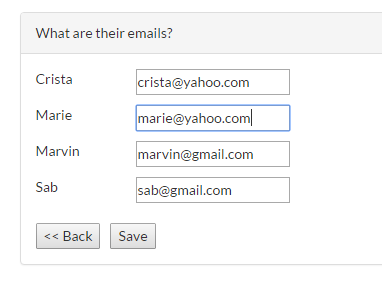
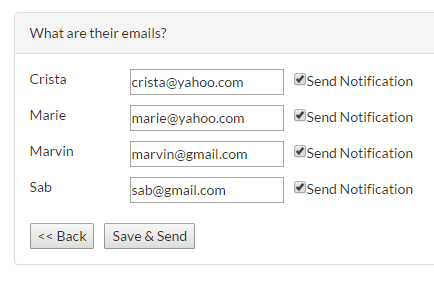
Updated the tutorial to add sending notification

diff --git a/public/css/style.css b/public/css/style.css
@@ -379,6 +379,11 @@ input.app-remove, input.app-show {
     content: url('../img/Tutorial11.PNG');
 }
 
+#tutorial12 {
+    max-width: 100%;
+    content: url('../img/Tutorial12.PNG');
+}
+
 @media screen and (max-width: 430px) {
     input.app-remove, input.app-show{
         margin-left: 30px;

diff --git a/resources/views/tutorial.blade.php b/resources/views/tutorial.blade.php
@@ -52,6 +52,7 @@
                             <li><a href="#howtoassignstatuses">How can I assign statuses to the transaction?</a></li>
                             <li><a href="#servicechargeexplained">What is the service charge?</a></li>
                             <li><a href="#taggingexplained">How does tagging work?</a></li>
+                            <li><a href="#sendingnotification">How do I an send email notification to my friends? What does the notification contain?</a></li>
                         </ol>
                     </div>
                 </div>
@@ -276,12 +277,28 @@
                         <ol>
                             <li>Click on the "Tag" link in the <i>Receivables</i> section.</li>
                             <li>Type the person's email beside their name.<div><img id="tutorial10"></div> </li>
-                            <li>Click the Save button.</li>
+                            <li>Click the Save & Send button.</li>
                         </ol>
                         <p>
                             Marie logs in with marie@yahoo.com, and she can see the transaction in her <i>Payables</i> section. When she goes to the transaction details, she can see the status of the item where she is tagged, but she won't see the status of the others.
                             <div><img id="tutorial11"></div>
                         </p>
+                        <a href="#top">Back to Top</a>
+                    </div>
+                </div>
+            </div>
+        </div>
+    </div>
+
+    <div class="container">
+        <div class="row">
+            <div class="col-md-10 col-md-offset-1">
+                <div class="panel panel-default">
+                    <div class="panel-heading" id="sendingnotification">How do I an send email notification to my friends? What does the notification contain?</div>
+                    <div class="panel-body">
+                        <p>To send an email notification, just check the Send Notification box beside the name of the person in the Tag page, and click on Save & Send.</p>
+                        <p>The notification contains details of the transaction and to whom the person should pay the amount.</p>
+                        <div><img id="tutorial12"></div>
                         <a href="#top">Back to Top</a>
                     </div>
                 </div>
